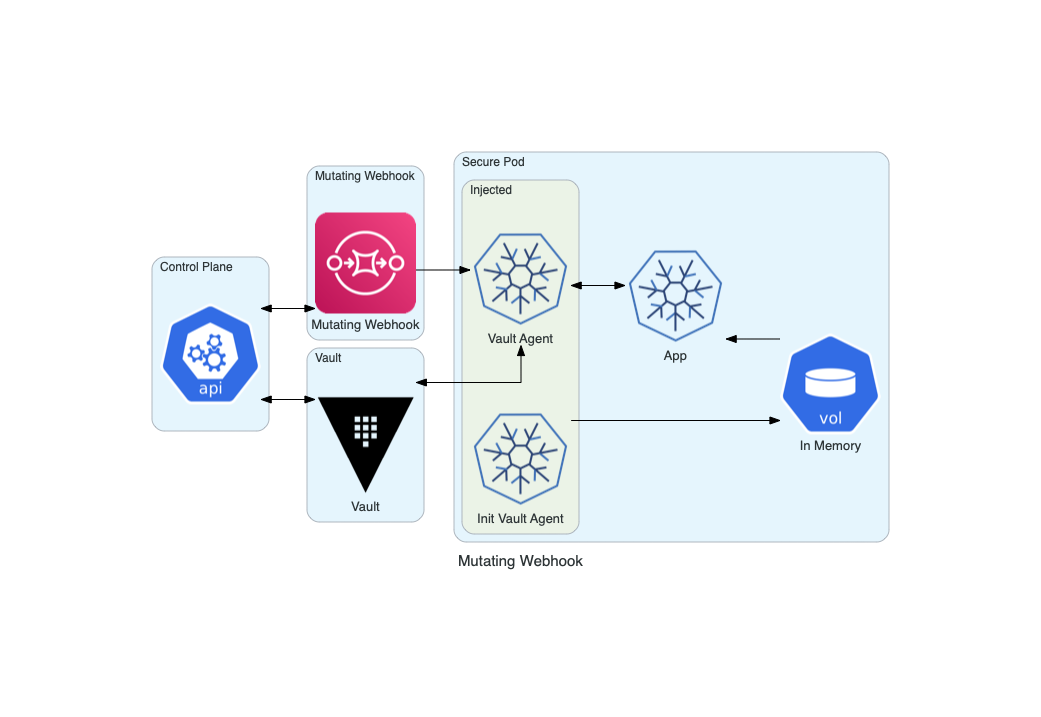
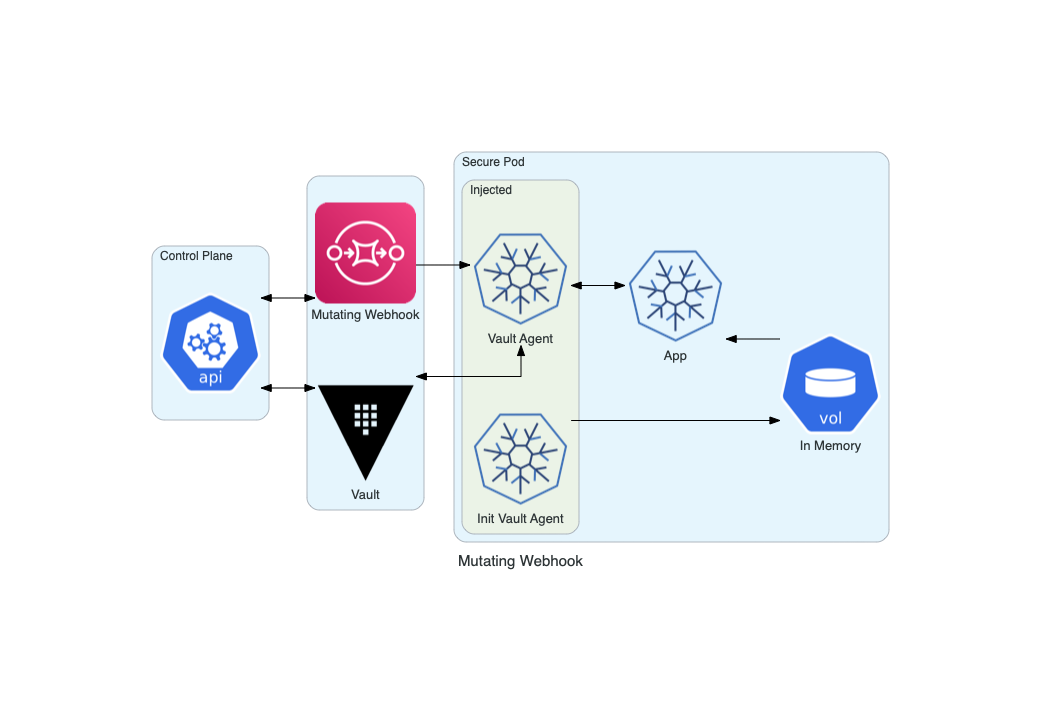
updated name

Changed region(s): [[0.123, 0.2148, 0.4611, 0.7364]]

diff --git a/diagrams/vault_diagrams.py b/diagrams/vault_diagrams.py
@@ -64,10 +64,10 @@ def webhooked_vault_agent_architecture():
         with Cluster("Control Plane"):
             apiserver = APIServer()
 
-        with Cluster("Mutating Webhook"):
+        with Cluster(""):
             webhook = SQS("Mutating Webhook")
 
-        with Cluster("Vault"):
+        with Cluster(""):
             vault = Vault("Vault")
 
         with Cluster("Secure Pod"):
